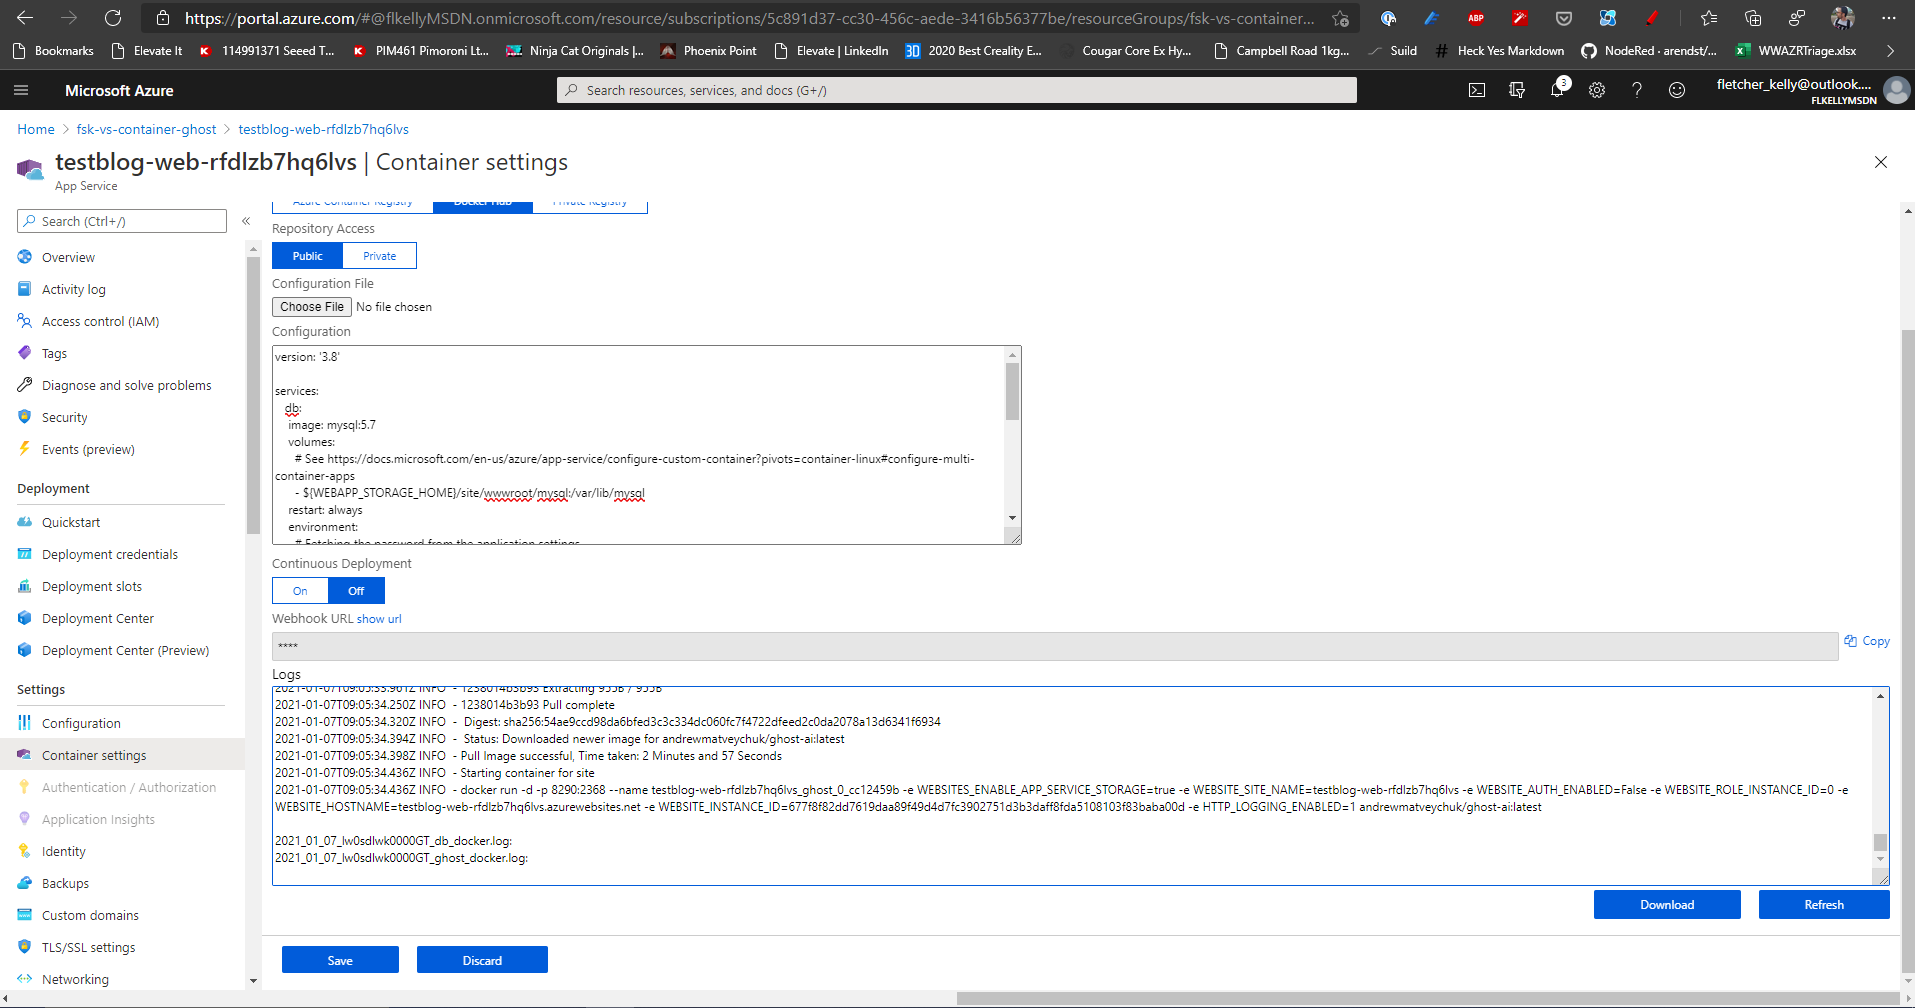
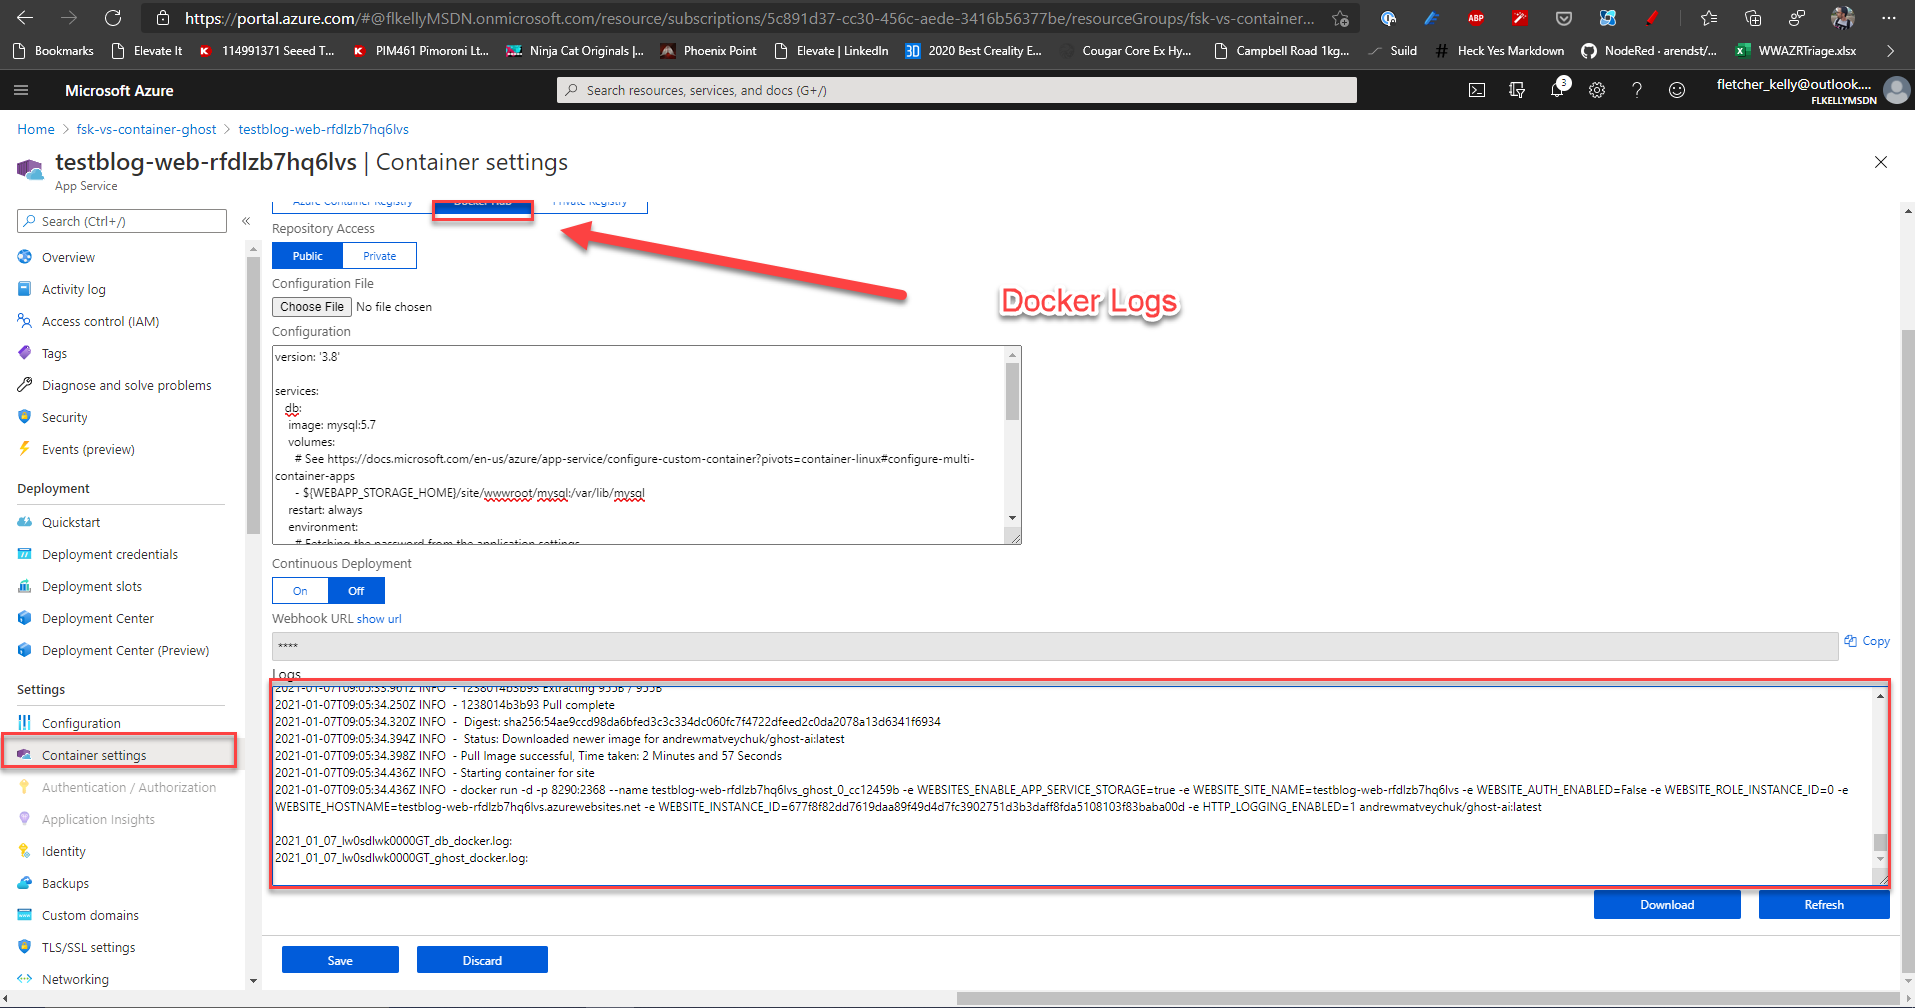
changing to draft

Changed region(s): [[0.0, 0.6458, 1.0, 0.8919], [0.2157, 0.1845, 0.493, 0.3075], [0.5238, 0.2768, 0.6162, 0.3383]]

diff --git a/content/post/2021/azure-ghost-cms-and-cdn.md b/content/post/2021/azure-ghost-cms-and-cdn.md
@@ -5,7 +5,7 @@ Description: ""
 Tags: []
 Categories: []
 DisableComments: false
-darft: "yes"
+draft: "yes"
 ---
 
 I moved my blog onto HUGO. Not everyone would want to do this necessarily, there is a bit of a learning curve, part of the reason I DID IT :). However there are other platforms you can use and still add more functionality if you want.  
@@ -13,10 +13,11 @@ I moved my blog onto HUGO. Not everyone would want to do this necessarily, there
 You can use #GHOST and add an #AZURECDN. This is what this blog post will cover.
 
 There are some very clever people out there that have made this very easy for you. From my research you have 2 main options.
+
 1. A "simple Web App"
 2. More complex deployment with Containers and a CDN - now this sounds interesting.  
 
-For this post i naturally focused on option 2. :). A **BIG** shoutout goes to [Andrew Matveychuk](https://andrewmatveychuk.com/about/). I am all about __**"Standing on the shoulders of giants**"__. I used his [repo](https://github.com/andrewmatveychuk/azure.ghost-web-app-for-containers) and then forked it into mine. He has a nice [blogpost](https://andrewmatveychuk.com/a-one-click-ghost-deployment-on-azure-web-app-for-containers/) on his journey. I simply unpacked this a little further and went into some more details and highlight some of the potential gotchas and setting up things in more detail with specific focus on the [Azure Portal](https://portal.azure.com). 
+For this post i naturally focused on option 2. :). A **BIG** shoutout goes to [Andrew Matveychuk](https://andrewmatveychuk.com/about/). I am all about __**"Standing on the shoulders of giants**"__. I used his [repo](https://github.com/andrewmatveychuk/azure.ghost-web-app-for-containers) and then forked it into mine. He has a nice [blogpost](https://andrewmatveychuk.com/a-one-click-ghost-deployment-on-azure-web-app-for-containers/) on his journey. I simply unpacked this a little further and went into some more details and highlight some of the potential gotchas and setting up things in more detail with specific focus on the [Azure Portal](https://portal.azure.com).
 
 ### Deployment
 
@@ -37,14 +38,16 @@ During the deployment of the application you will see the Web App change.
 ![Initial Web App](https://github.com/fskelly/flkelly-cloudblog/blob/main/static/images/blogImages/2021/ghostblogpost/initialWebApp.png?raw=true)  
 
 Almost
-![New App being deployed](https://github.com/fskelly/flkelly-cloudblog/blob/main/static/images/blogImages/2021/ghostblogpost/ghostBeingDeployed.png?raw=true) 
+![New App being deployed](https://github.com/fskelly/flkelly-cloudblog/blob/main/static/images/blogImages/2021/ghostblogpost/ghostBeingConfigured.png?raw=true)
 
-Success!!!
-![New App deployed](https://github.com/fskelly/flkelly-cloudblog/blob/main/static/images/blogImages/2021/ghostblogpost/ghostBeingConfigured.png?raw=true)
+Success!!!  
+You will see something **SIMILAR** to this.
+![New App deployed](https://github.com/fskelly/flkelly-cloudblog/blob/main/static/images/blogImages/2021/ghostblogpost/ghostConfigured.png?raw=true)
 
-
-
-### Gotchas
+### Gotcha with Container Deployment
 
 1. The solution takes a while to deploy - this seems to be due to some changes made recently by Docker. Do **NOT** be hasty like I was, this can cause issues and create the need for a re-deploy. Instead lets use the logs to see what is going on :)  
-
+Now let's find the log I was talking about.
+![Docker Logs](https://github.com/fskelly/flkelly-cloudblog/blob/main/static/images/blogImages/2021/ghostblogpost/containerLogs.png?raw=true)
+We are waiting for **this** entry
+![Magic Moment](https://github.com/fskelly/flkelly-cloudblog/blob/main/static/images/blogImages/2021/ghostblogpost/magicMoment-PATIENCE.png?raw=true)
